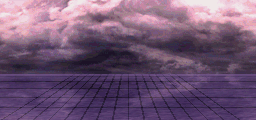
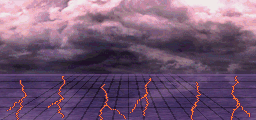
Heart backdrop: fix palette encoding (RGB555), glowing floor cracks pulse, rare lightning flashes
The last two builds failed because ags-graphics needs exact RGB555 palette
entries; snap them. Cracks use reserved palette entries 120-127, animated by a
VBlank task only while Heart's backdrop is loaded.

Claude-Session: https://claude.ai/code/session_01DQWC7xTsxVudAbpPbiVFX3

diff --git a/games/tbs/src/battle/battle/background.c b/games/tbs/src/battle/battle/background.c
@@ -157,9 +157,105 @@ void BattleBackground_Init(void) {
   state->mode = BATTLE_BACKGROUND_NONE;
 }
 
+/// Heart's backdrop: the palette entries the floor's fissures use
+/// (tools/dark_story/build_heart_floor.py reserves 120 to 127).
+#define HEART_CRACK_CORE 120
+#define HEART_CRACK_HALO 124
+/// Frames between lightning strikes at the soonest, and the random spread.
+#define HEART_LIGHTNING_MIN 360
+#define HEART_LIGHTNING_SPREAD 480
+
+static u16 sHeartGlowClock;
+static u16 sHeartNextStrike;
+static u16 sHeartStrikeFrame;
+static u16 sHeartRandom = 0x2f6b;
+
+/// One channel of a colour pulsed between dim and bright: wave is 0 to 31.
+static u16 Heart_GlowColor(s32 red, s32 green, s32 blue, s32 wave,
+                           s32 scale) {
+  red = (red * (8 + wave) / 39) * scale >> 16;
+  green = (green * (8 + wave) / 39) * scale >> 16;
+  blue = (blue * (8 + wave) / 39) * scale >> 16;
+  return (blue << 10) | (green << 5) | red;
+}
+
+/// Heart's backdrop only: pulses the glowing fissures, a wave running along
+/// each one, and now and then flashes the whole sky and floor like lightning.
+/// Runs every VBlank while her battle lasts. It writes only while the
+/// background is zoomed and undimmed, so the battle animations that take the
+/// palette over are left alone. Added by BattleBackground_Load, removed by
+/// BattleBackground_Free.
+void Heart_StepBackdropGlow(void) {
+  struct BattleWork *battle = gBattleWork;
+  struct BattleBackgroundWork *view =
+      HEAP_SLOT_BLOCK(HEAP_SLOT_BATTLE_BACKGROUND);
+  s32 scale;
+  s32 k;
+
+  if (battle == NULL || view == NULL || view->mode != BATTLE_BACKGROUND_ZOOMED)
+    return;
+  scale = battle->brightness;
+  if (scale > Q16_ONE)
+    scale = Q16_ONE;
+  sHeartGlowClock++;
+  for (k = 0; k < 4; k++) {
+    // a triangle wave, 0 to 31, a quarter turn apart along each crack
+    s32 t = (sHeartGlowClock * 2 + k * 16) & 63;
+    s32 wave = t < 32 ? t : 63 - t;
+
+    BATTLE_BG_PALETTE[HEART_CRACK_CORE + k] =
+        Heart_GlowColor(31, 17, 6, wave, scale);
+    BATTLE_BG_PALETTE[HEART_CRACK_HALO + k] =
+        Heart_GlowColor(14, 5, 12, wave, scale);
+  }
+  if (scale != Q16_ONE)
+    return;
+  if (sHeartStrikeFrame == 0) {
+    if (sHeartNextStrike == 0) {
+      sHeartRandom = sHeartRandom * 25173 + 13849;
+      sHeartNextStrike = HEART_LIGHTNING_MIN +
+                         (sHeartRandom >> 4) % HEART_LIGHTNING_SPREAD;
+    }
+    if (--sHeartNextStrike == 0)
+      sHeartStrikeFrame = 1;
+  }
+  if (sHeartStrikeFrame != 0) {
+    // two flickering flashes: up fast, down slow, a pause, then a smaller one
+    static const u8 strike[] = {10, 22, 28, 20, 12, 6, 0, 0, 0, 12, 18, 10, 4};
+    u16 *source = battle->palette;
+    u16 *destination = BATTLE_BG_PALETTE;
+    s32 gain = strike[sHeartStrikeFrame - 1];
+    s32 i;
+
+    for (i = 0; i < 120; i++) {
+      u32 pixel = source[i];
+      s32 red = (pixel & 31) + gain;
+      s32 green = ((pixel >> 5) & 31) + gain;
+      s32 blue = ((pixel >> 10) & 31) + gain + (gain >> 1);
+
+      if (red > 31)
+        red = 31;
+      if (green > 31)
+        green = 31;
+      if (blue > 31)
+        blue = 31;
+      destination[i] = (blue << 10) | (green << 5) | red;
+    }
+    sHeartStrikeFrame++;
+    if (sHeartStrikeFrame > sizeof strike) {
+      sHeartStrikeFrame = 0;
+      // put the sky and floor back exactly
+      Dma_Set(source, destination, DMA_COPY_HALFWORDS(120), REG_DMA3);
+    }
+  }
+}
+
 /// Frees the zoomed background's scanline work; called by
 /// Battle_Run as the battle ends.
-void BattleBackground_Free(void) { FreeHeapSlot(HEAP_SLOT_BATTLE_SCANLINES); }
+void BattleBackground_Free(void) {
+  Task_Remove(Heart_StepBackdropGlow);
+  FreeHeapSlot(HEAP_SLOT_BATTLE_SCANLINES);
+}
 
 /// The bit decoder BattleBackground_Load copies to RAM and runs.
 typedef void (*BitDecoder)(const u8 *source, void *destination);
@@ -215,6 +311,14 @@ void BattleBackground_Load(s32 mode, s32 resourceId, s32 level) {
   Iwram_ClearWords((BG_SCREEN_BLOCK(31) + 0x7c0), 64);
   if (view->mode == BATTLE_BACKGROUND_NONE)
     Task_Add(BattleBackground_ShowZoomedPage, TASK_PASS_VBLANK + 127);
+  // Heart's floor glows and the sky flashes.
+  if ((u16)resourceId == (u16)(s32)&ResourceId_HeartBackdrop) {
+    sHeartGlowClock = 0;
+    sHeartNextStrike = 240;
+    sHeartStrikeFrame = 0;
+    Task_Remove(Heart_StepBackdropGlow);
+    Task_Add(Heart_StepBackdropGlow, TASK_PASS_VBLANK);
+  }
   view->mode = mode;
   if (mode == BATTLE_BACKGROUND_FIXED)
     REG_BG1CNT = BATTLE_BG1CNT;

diff --git a/tools/dark_story/build_heart_floor.py b/tools/dark_story/build_heart_floor.py
@@ -68,11 +68,50 @@ for r in range(floor_rows):
         row = row * (1 - 0.55 * m) + np.array([120.0, 88.0, 150.0]) * 0.55 * m
     out[HORIZON + r] = row
 
-# soft vertical vignette at the sides keeps the wrap seam invisible
+# Glowing fissures in the glass. They are painted after the floor is quantised,
+# with palette entries 120-127 reserved for them: the battle code
+# (background.c, Heart_StepBackdropGlow) pulses these eight colours.
 img = Image.fromarray(np.clip(out, 0, 255).astype(np.uint8))
-q = img.quantize(colors=128, method=Image.Quantize.MEDIANCUT, dither=Image.Dither.NONE)
-pal = q.getpalette()[:384]
+q = img.quantize(colors=120, method=Image.Quantize.MEDIANCUT, dither=Image.Dither.NONE)
+idx = np.array(q)
+cr = np.random.default_rng(11)
+CORE = 120    # 120-123: cores, four phases along each crack
+HALO = 124    # 124-127: the faint glow beside a core, same four phases
+def crack(x, y, steps, drift):
+    pts = []
+    for n in range(steps):
+        pts.append((x % W, y))
+        y += 1 if cr.random() < 0.75 else 0
+        x += int(cr.integers(-1, 2)) + drift
+        if y >= H:
+            break
+    return pts
+paths = []
+for sx, sy in [(20, 80), (62, 76), (104, 84), (150, 78), (196, 82), (236, 76)]:
+    p0 = crack(sx, sy, int(cr.integers(48, 64)), int(cr.integers(-1, 2)) * 0)
+    paths.append(p0)
+    # a branch splitting off partway
+    bx, by = p0[len(p0) // 2]
+    paths.append(crack(bx, by, int(cr.integers(14, 26)), 1 if cr.random() < 0.5 else -1))
+for path in paths:
+    for n, (x, y) in enumerate(path):
+        if y < HORIZON + 2:
+            continue
+        ph = (n // 3) % 4
+        for dx in (-1, 1):
+            if idx[y, (x + dx) % W] < 120:
+                idx[y, (x + dx) % W] = HALO + ph
+        idx[y, x] = CORE + ph
+q = Image.fromarray(idx.astype(np.uint8), "P")
+pal = Image_pal = None
+pal = list(img.quantize(colors=120, method=Image.Quantize.MEDIANCUT, dither=Image.Dither.NONE).getpalette()[:360])
 pal += [0] * (384 - len(pal))
+# placeholder glow colours; the game animates them
+for k in range(4):
+    pal[(CORE + k) * 3:(CORE + k) * 3 + 3] = [248, 120, 48]
+    pal[(HALO + k) * 3:(HALO + k) * 3 + 3] = [96, 40, 88]
+# the graphics encoder only takes exact RGB555 colours (multiples of 8)
+pal = [min(248, int(round(v / 8.0)) * 8) for v in pal]
 q.putpalette(pal)
 q.save(OUT)
-print("wrote", OUT, q.size, len(q.getcolors()), "colours")
+print("wrote", OUT, q.size, len(set(idx.flatten().tolist())), "colours used")

diff --git a/games/tbs/include/unit/battle/battle.h b/games/tbs/include/unit/battle/battle.h
@@ -331,6 +331,7 @@ void BattleHighlight_SetSpriteMode(s32 unitId, s32 mode);
 void BattleHighlight_SetOtherSpriteModes(s32 selectedUnitId);
 void BattleHighlight_ClearAllSpriteModes(void);
 void BattleBackground_StepHighlightBlend(void);
+void Heart_StepBackdropGlow(void);
 void BattleHighlight_SetModes(u16 *selectedUnits, s32 mode);
 
 #ifdef UBFIX
